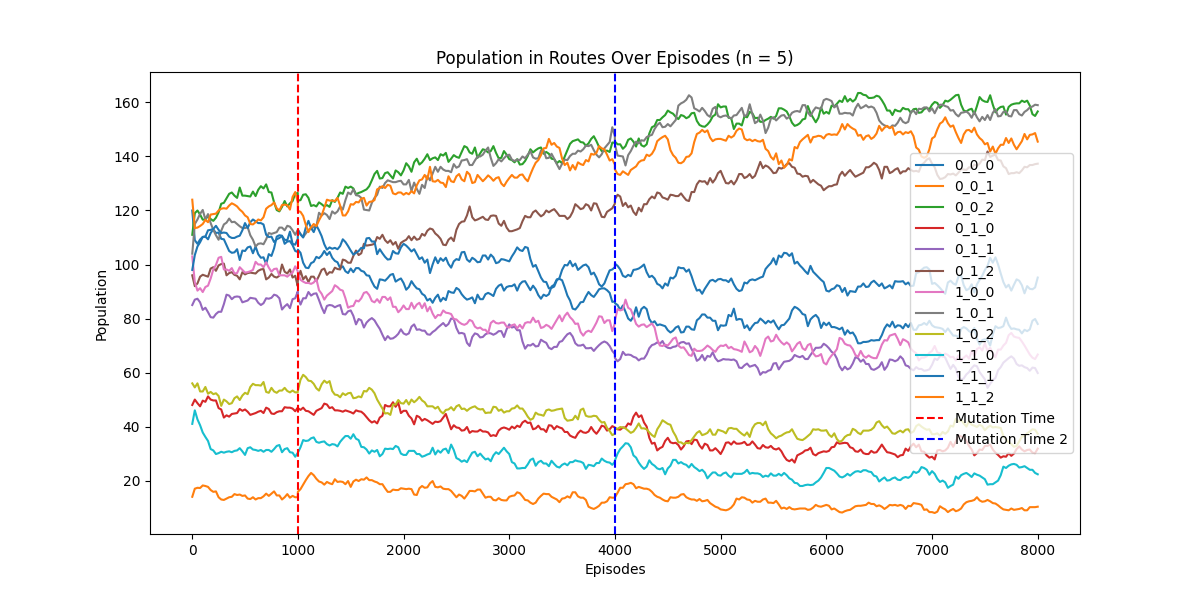
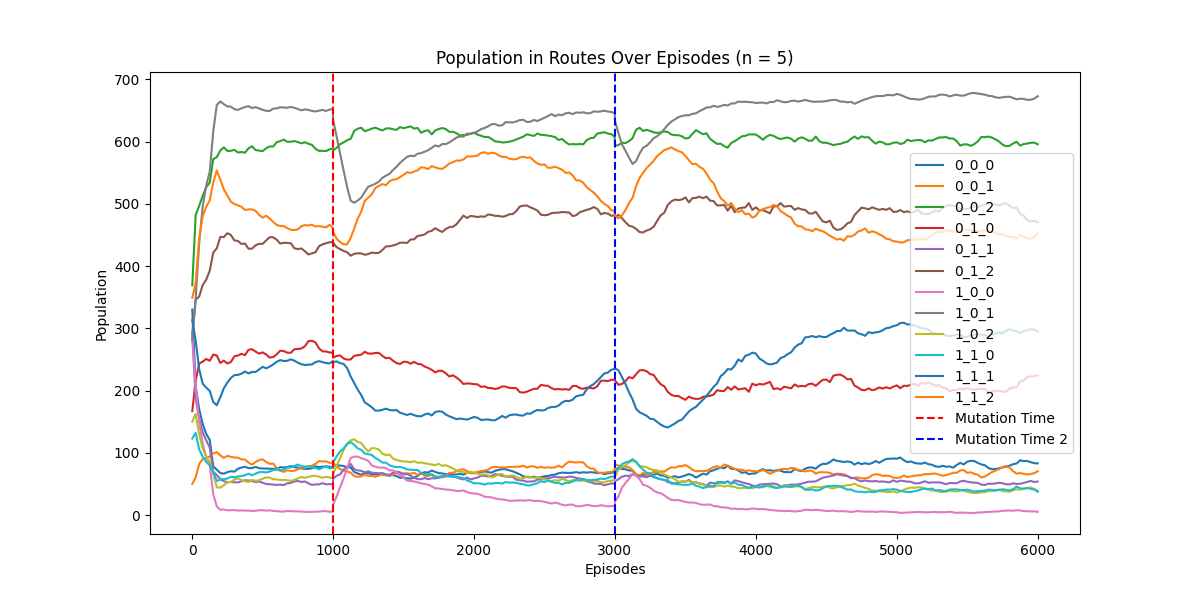
6K ep training with 3K agents

diff --git a/README.md b/README.md
@@ -12,24 +12,24 @@ See [here](server_scripts/how_to.md).
 ## Training results
 
 ### Number of agents
-1000 agents ~ around 800 humans, 200 selfish machines, 100 malicious (disruptive?) machines
+3000 agents - Humans: 1520 | Machines: 882 | Malicious machines: 598
 ### Training episodes
-8000 Episodes, first mutation at 1000, second at 4000
+6000 Episodes, first mutation at 1000, second at 3000
 ### Training duration
-15 hours, 10 minutes, 23 seconds
+1 day, 05 hours, 35 minutes, 50 seconds
 ### Specs
 mem: 64G, cpus-per-task: 20, partition: cpu
 
 
-## Collected Mean Rewards(in minutes):
+## Collected Mean Rewards (in minutes)
 ![](readme_plots/rewards.png)
 
 
-## Distribution of Rewards:
+## Distribution of Rewards
 ![](readme_plots/rewards_dist.png)
 
 
-## Simulation Timesteps:
+## Simulation Timesteps
 ![](readme_plots/simulation_length.png)
 
 
@@ -41,7 +41,7 @@ mem: 64G, cpus-per-task: 20, partition: cpu
 ![](readme_plots/actions_shifts.png)
 
 
-## Route Populations:
+## Route Populations
 ![](readme_plots/flows.png)
 
 
